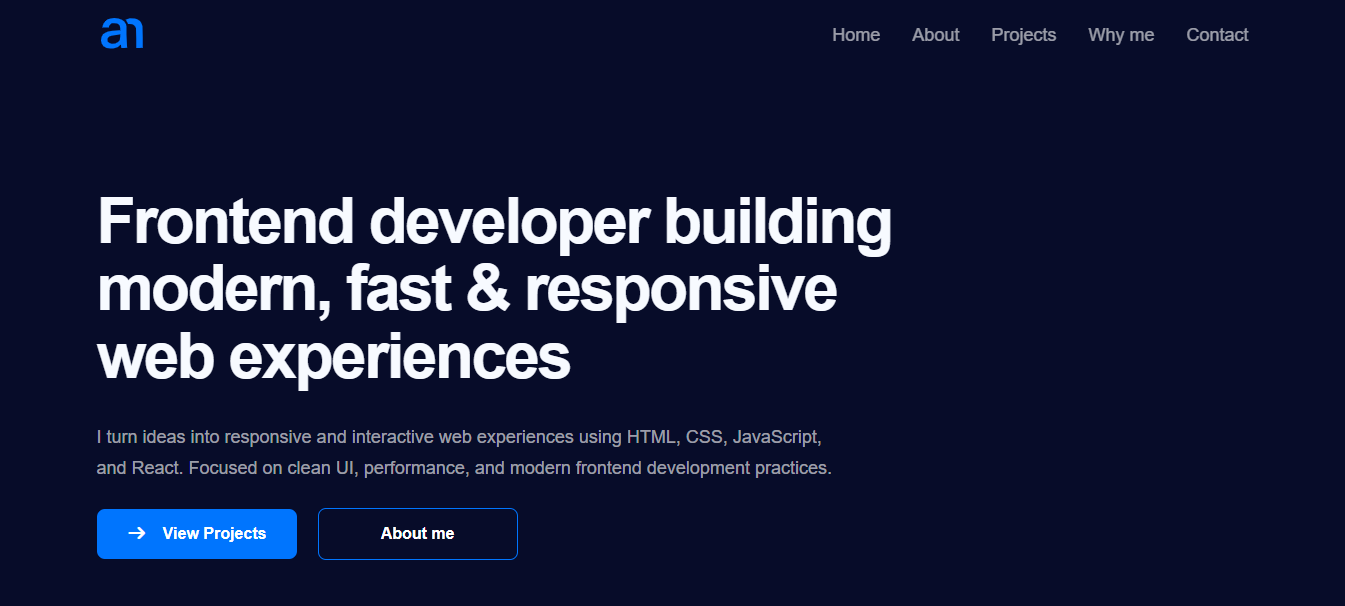
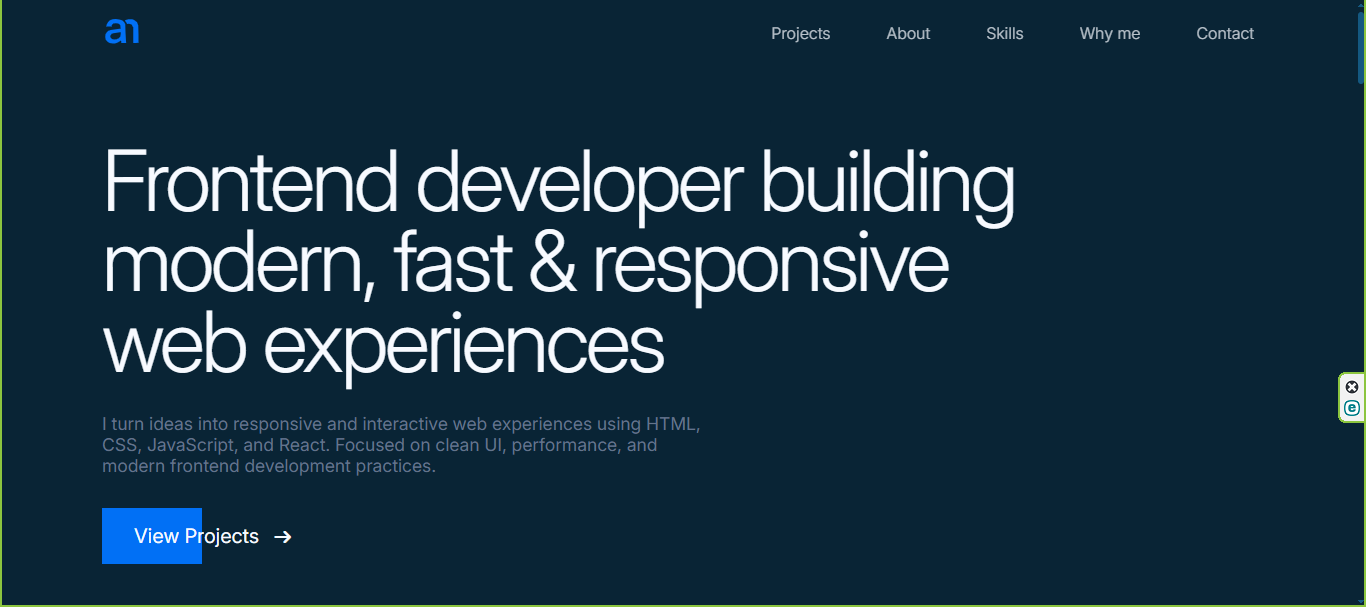
change my profile picture and compress size by 38%, change some colors

diff --git a/assets/css/style.css b/assets/css/style.css
@@ -1,9 +1,9 @@
 :root {
-  --main-background: #071d2b;
-  --card-backround: #0e273a;
+  --main-background: #092435;
+  --card-backround: #0a2d41;
   --main-text-color: #64748b;
   --heading-text-color: #f7faff;
-  --accent-color: #0a6fe2;
+  --accent-color: #0170f5;
   --highlight-color: #34d399;
   --btn-padding: 1rem 2rem;
   --radius-sm: 0.25rem;
@@ -19,7 +19,29 @@
 
 html {
   scroll-behavior: smooth;
-  scrollbar-width: none;
+  scrollbar-width: thin;
+  scrollbar-color: #145880 var(--main-background);
+}
+
+html::-webkit-scrollbar {
+  width: 10px;
+  height: 10px;
+}
+
+html::-webkit-scrollbar-track {
+  background: #145880;
+  border-radius: 8px;
+}
+
+html::-webkit-scrollbar-thumb {
+  background: #145880;
+  border-radius: 8px;
+  border: 2px solid #f1f1f1;
+}
+
+/* Hover effects for WebKit engines */
+html::-webkit-scrollbar-thumb:hover {
+  background: #186c9c; /* Darker color on hover */
 }
 
 body {
@@ -27,7 +49,6 @@ body {
   font-size: 1.1rem;
   background-color: var(--main-background);
   color: var(--main-text-color);
-  font-family: "Inter", sans-serif;
   font-optical-sizing: auto;
   font-style: normal;
   overflow-x: hidden;
@@ -112,7 +133,7 @@ img {
   width: 45%;
   height: 100%;
   z-index: -1;
-  transition: width 250ms ease-in-out;
+  transition: width 500ms ease-in-out;
 }
 
 .btn:hover::before {
@@ -168,7 +189,8 @@ img {
 }
 
 .logo {
-  width: 40px;
+  color: var(--heading-text-color);
+  width: 2.5rem;
 }
 
 .nav-header nav ul {
@@ -296,8 +318,7 @@ img {
 
 .project-tools span {
   padding: 0.25rem 0.5rem;
-  background: var(--main-background);
-  background: rgba(15, 23, 42, 0.8);
+  background: rgb(15, 50, 75);
   color: var(--highlight-color);
   border-radius: 1rem;
   font-size: 0.85rem;
@@ -323,10 +344,6 @@ img {
 /* ------------ About me ------------ */
 .about {
   min-height: 100dvh;
-  display: flex;
-  flex-direction: column;
-  justify-content: center;
-  position: relative;
 }
 
 .about .about-wrapper {
@@ -339,18 +356,18 @@ img {
   margin-bottom: 3rem;
 }
 
-.about-bio {
-  margin-top: auto;
-}
-
 .bio {
   margin-bottom: 1.75rem;
-  font-size: 1.35rem;
+  /* font-size: 1.35rem; */
   line-height: 1.75rem;
 }
 
 .about .bio:last-child {
   margin-bottom: 0;
+}
+
+.about-image {
+  max-width: 335px;
 }
 
 .about-image img {
@@ -390,8 +407,8 @@ img {
 }
 
 /* ------------ Why Me ------------ */
-.why-me {
-}
+/* .why-me {
+} */
 
 .why-me .container {
   display: grid;

diff --git a/index.html b/index.html
@@ -80,12 +80,12 @@
     <header class="nav-header">
       <div class="container">
         <nav aria-label="Main navigation">
-          <a href="/"
+          <a class="logo" href="/"
             ><svg
               xmlns="http://www.w3.org/2000/svg"
               class="logo"
               viewBox="0 0 327 327"
-              fill="#0a6fe2"
+              fill="#0170f5"
             >
               <path
                 d="M88.5 68.1c-26.4 5.3-44.7 22.1-50.9 47-.9 3.6-1.6 7.7-1.6 9.2v2.7h40.8l.6-3.5c1.9-10 7.4-17.1 16.6-21.4 5.1-2.4 6.6-2.6 19-2.6 10.3 0 14.7.4 18.5 1.8 7.3 2.5 14.4 8.3 17.4 14.2 2.3 4.3 2.6 6.4 2.9 17.1l.4 12.1-8.9.7c-66.7 4.9-88.1 10.3-103.3 26.2-10.7 11.1-14.7 23-13.7 40.9 1.8 32.6 22.3 50.5 60.7 53.1 11.6.7 25.6-1.3 37.8-5.6 9.2-3.2 15.6-7 24.4-14.3 3.1-2.6 5.9-4.7 6.1-4.7s.7 3 1.1 6.7c.4 3.8 1.1 8.5 1.7 10.5l1 3.8h19.4c15 0 19.5-.3 19.5-1.3 0-.6-1-6.6-2.2-13.2-1.9-11.1-2.2-16.8-2.7-73-.7-59.2-.8-61.2-2.9-67.6-8.9-26.8-36.1-41.1-77.6-40.8-9.7 0-17.3.7-24.1 2m64.2 118.1c-.9 19.7-4.6 28.9-14.8 36.4-11.1 8.1-25.8 12.2-40.8 11.1-12.7-.8-21.5-5.9-26.4-15.2-3.1-5.8-3-17.6.1-22.6C76.1 187.3 81.4 184 95 181c7.4-1.6 31.3-5 52-7.3 1.9-.2 4.1-.5 4.9-.5 1.2-.2 1.3 2 .8 13M214.8 67c-15.4 2.8-31.1 10.2-25.9 12.2 1.8.7 10.7 15.6 12.6 21.1 1.5 4.4 2.3 5.6 3.5 5.1.8-.4 4.9-.9 9.1-1.1 11.4-.8 21.3 2.4 28.6 9 6 5.6 10.4 13.3 12.2 21.5.7 3.6 1.1 24.9 1.1 66.2v61h21.4c19.5 0 21.4-.2 21.8-1.7.2-1 .3-31.1.2-66.8-.2-60.7-.3-65.6-2.2-74.7-4.3-20.7-15.9-36.1-33.5-44.8-4.5-2.2-11.6-4.7-15.7-5.6-8.9-1.9-26.6-2.6-33.2-1.4"
@@ -299,8 +299,11 @@
               </div>
               <div class="about-image">
                 <img
-                  src="/assets/images/abdelkarim-nakkahi-frontend-developer-portrait.jpg"
+                  width="335px"
+                  height="335px"
+                  src="/assets/images/abdelkarim-nakkahi-frontend-developer.jpg"
                   alt="Abdelkarim Nakkahi, Frontend developer"
+                  loading="lazy"
                 />
               </div>
             </div>

diff --git a/assets/js/main.js b/assets/js/main.js
@@ -101,9 +101,9 @@ gsap.utils.toArray(".project-item").forEach((card, index) => {
 });
 
 // About Animation
-gsap.from(".bio", {
+gsap.from(".about-wrapper", {
   scrollTrigger: {
-    trigger: ".about-bio",
+    trigger: ".about-wrapper",
     start: "top 75%",
   },
   y: 40,
@@ -112,6 +112,7 @@ gsap.from(".bio", {
   duration: 1,
   ease: "power3.out",
 });
+
 // Skills Animation
 gsap.from(".skills-category", {
   scrollTrigger: {